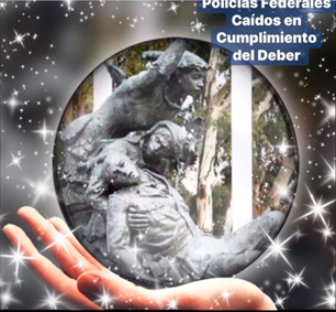
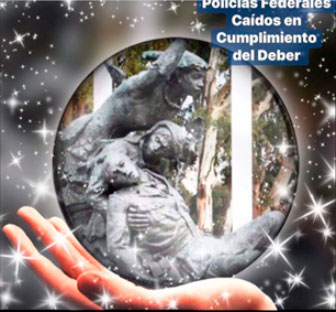
comprimiendo

diff --git a/novedades.html b/novedades.html
@@ -108,7 +108,7 @@
           <img class="img-fluid" src="imagenes/Novedades/semana-policia/semana-policia-1.jpg" alt="" width="520px" height="350px">
         </div>
         <div class="col-xs-12 col-sm-12 col-md-12 col-lg-6 col-xl-6 d-flex justify-content-center mb-5">
-            <img class="img-fluid" src="imagenes/Novedades/semana-policia/semana-policia-2.jpeg" alt="" width="520px" height="350px">
+            <img class="img-fluid" src="imagenes/Novedades/semana-policia/semana-policia-2.jpg" alt="" width="520px" height="350px">
         </div>
       </div>
     </div>

diff --git a/estilos/css.css b/estilos/css.css
@@ -323,7 +323,7 @@ background-image: none!important;
 .heroes{
     width: 100%;
     height: 85vh;
-    background-image: url(../imagenes/heroes-sentimientos.png);
+    background-image: url(../imagenes/heroes-sentimientos.jpg);
     background-repeat: no-repeat;
     background-position: center;
     background-size: cover;
